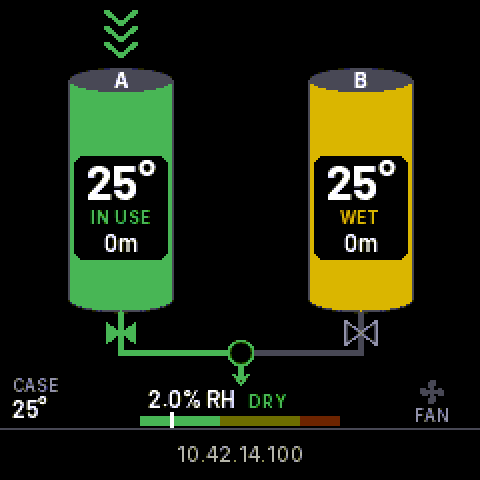
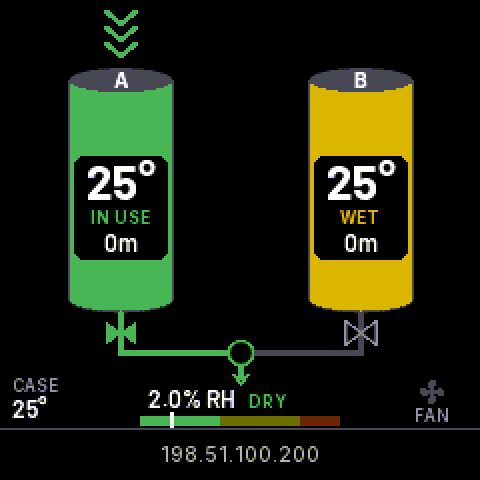
Replace device IP addresses in the repo with placeholders
The bench board's and the dev Home Assistant's LAN addresses were written
into the HA docs, the dashboard header, the handoff, and the historical
plans and specs. They change whenever the board moves between sites and
are not something the repo should carry.

- Docs and commands say `<board>` (the board's IP address), the
  placeholder CLAUDE.md already uses; the HA instance is named, not
  addressed.
- Screen scenario 11 (boot strip showing the IP) and the mockup use
  198.51.100.200, an RFC 5737 documentation address that no device can
  have; it is wider than the old address, so the strip layout is still
  exercised. docs/display/state-11.png re-rendered.

Changed region(s): [[0.3438, 0.9062, 0.6875, 0.9688]]

diff --git a/docs/display/mockup-states.html b/docs/display/mockup-states.html
@@ -32,6 +32,6 @@
 <div class="tile"><svg class="scr" viewBox="0 0 240 240"><rect width="240" height="240" fill="#000"/><ellipse cx="60" cy="150" rx="26" ry="6" fill="#FF9200" stroke="#494955" stroke-width="1"/><rect x="34" y="40" width="52" height="110" fill="#FF9200"/><line x1="34" y1="40" x2="34" y2="150" stroke="#494955" stroke-width="1"/><line x1="86" y1="40" x2="86" y2="150" stroke="#494955" stroke-width="1"/><ellipse cx="60" cy="40" rx="26" ry="6" fill="#494955" stroke="none" stroke-width="1"/><text x="60" y="44" class="cap" text-anchor="middle">A</text><rect x="37" y="78" width="47" height="52" rx="4" fill="#000"/><text x="60" y="100" class="big" text-anchor="middle" fill="#FFFFFF">94°</text><text x="60" y="112" class="role7" text-anchor="middle" fill="#FF9200">HEATING</text><text x="60" y="126" class="timer" text-anchor="middle">15m</text><ellipse cx="180" cy="150" rx="26" ry="6" fill="#24DB55" stroke="#494955" stroke-width="1"/><rect x="154" y="40" width="52" height="110" fill="#24DB55"/><line x1="154" y1="40" x2="154" y2="150" stroke="#494955" stroke-width="1"/><line x1="206" y1="40" x2="206" y2="150" stroke="#494955" stroke-width="1"/><ellipse cx="180" cy="40" rx="26" ry="6" fill="#494955" stroke="none" stroke-width="1"/><text x="180" y="44" class="cap" text-anchor="middle">B</text><rect x="157" y="78" width="47" height="52" rx="4" fill="#000"/><text x="180" y="100" class="big" text-anchor="middle" fill="#FFFFFF">29°</text><text x="180" y="112" class="role7" text-anchor="middle" fill="#24DB55">IN USE</text><text x="180" y="126" class="timer" text-anchor="middle">1h 40m</text><path d="M51 30 C47 25 55 20 51 15 C47 10 55 7 51 3" fill="none" stroke="#FFB600" stroke-width="2" stroke-linecap="round"/><path d="M60 30 C56 25 64 20 60 15 C56 10 64 7 60 3" fill="none" stroke="#FFB600" stroke-width="2" stroke-linecap="round"/><path d="M69 30 C65 25 73 20 69 15 C65 10 73 7 69 3" fill="none" stroke="#FFB600" stroke-width="2" stroke-linecap="round"/><path d="M173 5 L180 11 L187 5" fill="none" stroke="#24DB55" stroke-width="2.5" stroke-linejoin="round"/><path d="M173 13 L180 19 L187 13" fill="none" stroke="#24DB55" stroke-width="2.5" stroke-linejoin="round"/><path d="M173 21 L180 27 L187 21" fill="none" stroke="#24DB55" stroke-width="2.5" stroke-linejoin="round"/><path d="M60 156 V176 M60 176 H180 M180 156 V176" stroke="#494955" stroke-width="3" fill="none"/><path d="M180 156 V176 M180 176 H120" stroke="#24DB55" stroke-width="3" fill="none"/><path d="M53 160 L60 166 L53 172 Z M67 160 L60 166 L67 172 Z" fill="#000" stroke="#9292AA" stroke-width="1.2"/><path d="M173 160 L180 166 L173 172 Z M187 160 L180 166 L187 172 Z" fill="#24DB55"/><circle cx="120" cy="176" r="6" fill="#000" stroke="#24DB55" stroke-width="1.5"/><path d="M120 182 V190" stroke="#24DB55" stroke-width="3"/><path d="M116 187 L120 192 L124 187" fill="none" stroke="#24DB55" stroke-width="1.5"/><text x="118" y="204" class="val12" text-anchor="end">5.6% RH</text><text x="124" y="204" class="role8" fill="#FFB600">RISING</text><rect x="70" y="208" width="40" height="5" fill="#246D24"/><rect x="110" y="208" width="40" height="5" fill="#FFB600"/><rect x="150" y="208" width="20" height="5" fill="#6D0000"/><rect x="114" y="206" width="2" height="9" fill="#FFFFFF"/><text x="6" y="196" class="lab">CASE</text><text x="6" y="209" class="val12">30°</text><g transform="translate(216 196)"><circle r="7" fill="none" stroke="#24DB55" stroke-width="1.4"/><ellipse cx="0" cy="-3.2" rx="1.6" ry="3" fill="#24DB55" transform="rotate(0)"/><ellipse cx="0" cy="-3.2" rx="1.6" ry="3" fill="#24DB55" transform="rotate(120)"/><ellipse cx="0" cy="-3.2" rx="1.6" ry="3" fill="#24DB55" transform="rotate(240)"/></g><text x="216" y="211" class="lab7" text-anchor="middle">FAN</text><line x1="0" y1="214" x2="240" y2="214" stroke="#494955"/><text x="120" y="231" class="status" text-anchor="middle">Air via B, A heating</text></svg><h4>8. B in use, A heating</h4><p>Mirror image: waves over A, chevrons into B.</p></div>
 <div class="tile"><svg class="scr" viewBox="0 0 240 240"><rect width="240" height="240" fill="#000"/><ellipse cx="60" cy="150" rx="26" ry="6" fill="#24DB55" stroke="#494955" stroke-width="1"/><rect x="34" y="40" width="52" height="110" fill="#24DB55"/><line x1="34" y1="40" x2="34" y2="150" stroke="#494955" stroke-width="1"/><line x1="86" y1="40" x2="86" y2="150" stroke="#494955" stroke-width="1"/><ellipse cx="60" cy="40" rx="26" ry="6" fill="#494955" stroke="none" stroke-width="1"/><text x="60" y="44" class="cap" text-anchor="middle">A</text><rect x="37" y="78" width="47" height="52" rx="4" fill="#000"/><text x="60" y="100" class="big" text-anchor="middle" fill="#FFFFFF">33°</text><text x="60" y="112" class="role7" text-anchor="middle" fill="#24DB55">IN USE</text><text x="60" y="126" class="timer" text-anchor="middle">2h 20m</text><ellipse cx="180" cy="150" rx="26" ry="6" fill="#FF2424" stroke="#494955" stroke-width="1"/><rect x="154" y="40" width="52" height="110" fill="#FF2424"/><line x1="154" y1="40" x2="154" y2="150" stroke="#494955" stroke-width="1"/><line x1="206" y1="40" x2="206" y2="150" stroke="#494955" stroke-width="1"/><ellipse cx="180" cy="40" rx="26" ry="6" fill="#494955" stroke="none" stroke-width="1"/><text x="180" y="44" class="cap" text-anchor="middle">B</text><rect x="157" y="78" width="47" height="52" rx="4" fill="#000"/><text x="180" y="100" class="big" text-anchor="middle" fill="#FFFFFF">124°</text><text x="180" y="112" class="role7" text-anchor="middle" fill="#FF2424">FAULT</text><text x="180" y="126" class="timer" text-anchor="middle">18m</text><path d="M53 5 L60 11 L67 5" fill="none" stroke="#24DB55" stroke-width="2.5" stroke-linejoin="round"/><path d="M53 13 L60 19 L67 13" fill="none" stroke="#24DB55" stroke-width="2.5" stroke-linejoin="round"/><path d="M53 21 L60 27 L67 21" fill="none" stroke="#24DB55" stroke-width="2.5" stroke-linejoin="round"/><path d="M60 156 V176 M60 176 H180 M180 156 V176" stroke="#494955" stroke-width="3" fill="none"/><path d="M60 156 V176 M60 176 H120" stroke="#24DB55" stroke-width="3" fill="none"/><path d="M53 160 L60 166 L53 172 Z M67 160 L60 166 L67 172 Z" fill="#24DB55"/><path d="M173 160 L180 166 L173 172 Z M187 160 L180 166 L187 172 Z" fill="#000" stroke="#9292AA" stroke-width="1.2"/><circle cx="120" cy="176" r="6" fill="#000" stroke="#24DB55" stroke-width="1.5"/><path d="M120 182 V190" stroke="#24DB55" stroke-width="3"/><path d="M116 187 L120 192 L124 187" fill="none" stroke="#24DB55" stroke-width="1.5"/><text x="118" y="204" class="val12" text-anchor="end">6.1% RH</text><text x="124" y="204" class="role8" fill="#FFB600">RISING</text><rect x="70" y="208" width="40" height="5" fill="#246D24"/><rect x="110" y="208" width="40" height="5" fill="#FFB600"/><rect x="150" y="208" width="20" height="5" fill="#6D0000"/><rect x="118" y="206" width="2" height="9" fill="#FFFFFF"/><text x="6" y="196" class="lab">CASE</text><text x="6" y="209" class="val12">36°</text><g transform="translate(216 196)"><circle r="7" fill="none" stroke="#24DB55" stroke-width="1.4"/><ellipse cx="0" cy="-3.2" rx="1.6" ry="3" fill="#24DB55" transform="rotate(0)"/><ellipse cx="0" cy="-3.2" rx="1.6" ry="3" fill="#24DB55" transform="rotate(120)"/><ellipse cx="0" cy="-3.2" rx="1.6" ry="3" fill="#24DB55" transform="rotate(240)"/></g><text x="216" y="211" class="lab7" text-anchor="middle">FAN</text><rect x="0" y="214" width="240" height="26" fill="#DB2424"/><text x="120" y="231" class="statusb" text-anchor="middle">FAULT · Standby pack overtemp</text></svg><h4>9. Fault on B</h4><p>Heaters off on a fault, so no waves; A's valve stays open, so air still flows in.</p></div>
 <div class="tile"><svg class="scr" viewBox="0 0 240 240"><rect width="240" height="240" fill="#000"/><ellipse cx="60" cy="150" rx="26" ry="6" fill="#000000" stroke="#494955" stroke-width="1"/><rect x="34" y="40" width="52" height="110" fill="#000000"/><line x1="34" y1="40" x2="34" y2="150" stroke="#494955" stroke-width="1"/><line x1="86" y1="40" x2="86" y2="150" stroke="#494955" stroke-width="1"/><ellipse cx="60" cy="40" rx="26" ry="6" fill="#494955" stroke="none" stroke-width="1"/><text x="60" y="44" class="cap" text-anchor="middle">A</text><rect x="37" y="78" width="47" height="52" rx="4" fill="#000"/><text x="60" y="100" class="big" text-anchor="middle" fill="#FFFFFF">28°</text><text x="60" y="112" class="role7" text-anchor="middle" fill="#9292AA">OFF</text><ellipse cx="180" cy="150" rx="26" ry="6" fill="#000000" stroke="#494955" stroke-width="1"/><rect x="154" y="40" width="52" height="110" fill="#000000"/><line x1="154" y1="40" x2="154" y2="150" stroke="#494955" stroke-width="1"/><line x1="206" y1="40" x2="206" y2="150" stroke="#494955" stroke-width="1"/><ellipse cx="180" cy="40" rx="26" ry="6" fill="#494955" stroke="none" stroke-width="1"/><text x="180" y="44" class="cap" text-anchor="middle">B</text><rect x="157" y="78" width="47" height="52" rx="4" fill="#000"/><text x="180" y="100" class="big" text-anchor="middle" fill="#FFFFFF">45°</text><text x="180" y="112" class="role7" text-anchor="middle" fill="#9292AA">OFF</text><path d="M60 156 V176 M60 176 H180 M180 156 V176" stroke="#494955" stroke-width="3" fill="none"/><path d="M53 160 L60 166 L53 172 Z M67 160 L60 166 L67 172 Z" fill="#000" stroke="#9292AA" stroke-width="1.2"/><path d="M173 160 L180 166 L173 172 Z M187 160 L180 166 L187 172 Z" fill="#000" stroke="#9292AA" stroke-width="1.2"/><circle cx="120" cy="176" r="6" fill="#000" stroke="#494955" stroke-width="1.5"/><path d="M120 182 V190" stroke="#494955" stroke-width="3"/><path d="M116 187 L120 192 L124 187" fill="none" stroke="#494955" stroke-width="1.5"/><text x="118" y="204" class="val12" text-anchor="end">3.0% RH</text><text x="124" y="204" class="role8" fill="#24DB55">DRY</text><rect x="70" y="208" width="40" height="5" fill="#24DB55"/><rect x="110" y="208" width="40" height="5" fill="#6D4900"/><rect x="150" y="208" width="20" height="5" fill="#6D0000"/><rect x="93" y="206" width="2" height="9" fill="#FFFFFF"/><text x="6" y="196" class="lab">CASE</text><text x="6" y="209" class="val12">26°</text><g transform="translate(216 196)"><circle r="7" fill="none" stroke="#494955" stroke-width="1.4"/><ellipse cx="0" cy="-3.2" rx="1.6" ry="3" fill="#494955" transform="rotate(0)"/><ellipse cx="0" cy="-3.2" rx="1.6" ry="3" fill="#494955" transform="rotate(120)"/><ellipse cx="0" cy="-3.2" rx="1.6" ry="3" fill="#494955" transform="rotate(240)"/></g><text x="216" y="211" class="lab7" text-anchor="middle">FAN</text><line x1="0" y1="214" x2="240" y2="214" stroke="#494955"/><text x="120" y="231" class="status" text-anchor="middle">Disabled</text></svg><h4>10. Disabled</h4><p>Everything off: nothing at the top.</p></div>
-<div class="tile"><svg class="scr" viewBox="0 0 240 240"><rect width="240" height="240" fill="#000"/><ellipse cx="60" cy="150" rx="26" ry="6" fill="#24DB55" stroke="#494955" stroke-width="1"/><rect x="34" y="40" width="52" height="110" fill="#24DB55"/><line x1="34" y1="40" x2="34" y2="150" stroke="#494955" stroke-width="1"/><line x1="86" y1="40" x2="86" y2="150" stroke="#494955" stroke-width="1"/><ellipse cx="60" cy="40" rx="26" ry="6" fill="#494955" stroke="none" stroke-width="1"/><text x="60" y="44" class="cap" text-anchor="middle">A</text><rect x="37" y="78" width="47" height="52" rx="4" fill="#000"/><text x="60" y="100" class="big" text-anchor="middle" fill="#FFFFFF">25°</text><text x="60" y="112" class="role7" text-anchor="middle" fill="#24DB55">IN USE</text><text x="60" y="126" class="timer" text-anchor="middle">0m</text><ellipse cx="180" cy="150" rx="26" ry="6" fill="#FF92AA" stroke="#494955" stroke-width="1"/><rect x="154" y="40" width="52" height="110" fill="#FF92AA"/><line x1="154" y1="40" x2="154" y2="150" stroke="#494955" stroke-width="1"/><line x1="206" y1="40" x2="206" y2="150" stroke="#494955" stroke-width="1"/><ellipse cx="180" cy="40" rx="26" ry="6" fill="#494955" stroke="none" stroke-width="1"/><text x="180" y="44" class="cap" text-anchor="middle">B</text><rect x="157" y="78" width="47" height="52" rx="4" fill="#000"/><text x="180" y="100" class="big" text-anchor="middle" fill="#FFFFFF">25°</text><text x="180" y="112" class="role7" text-anchor="middle" fill="#FF92AA">WET</text><text x="180" y="126" class="timer" text-anchor="middle">0m</text><path d="M53 5 L60 11 L67 5" fill="none" stroke="#24DB55" stroke-width="2.5" stroke-linejoin="round"/><path d="M53 13 L60 19 L67 13" fill="none" stroke="#24DB55" stroke-width="2.5" stroke-linejoin="round"/><path d="M53 21 L60 27 L67 21" fill="none" stroke="#24DB55" stroke-width="2.5" stroke-linejoin="round"/><path d="M60 156 V176 M60 176 H180 M180 156 V176" stroke="#494955" stroke-width="3" fill="none"/><path d="M60 156 V176 M60 176 H120" stroke="#24DB55" stroke-width="3" fill="none"/><path d="M53 160 L60 166 L53 172 Z M67 160 L60 166 L67 172 Z" fill="#24DB55"/><path d="M173 160 L180 166 L173 172 Z M187 160 L180 166 L187 172 Z" fill="#000" stroke="#9292AA" stroke-width="1.2"/><circle cx="120" cy="176" r="6" fill="#000" stroke="#24DB55" stroke-width="1.5"/><path d="M120 182 V190" stroke="#24DB55" stroke-width="3"/><path d="M116 187 L120 192 L124 187" fill="none" stroke="#24DB55" stroke-width="1.5"/><text x="118" y="204" class="val12" text-anchor="end">2.0% RH</text><text x="124" y="204" class="role8" fill="#24DB55">DRY</text><rect x="70" y="208" width="40" height="5" fill="#24DB55"/><rect x="110" y="208" width="40" height="5" fill="#6D4900"/><rect x="150" y="208" width="20" height="5" fill="#6D0000"/><rect x="85" y="206" width="2" height="9" fill="#FFFFFF"/><text x="6" y="196" class="lab">CASE</text><text x="6" y="209" class="val12">25°</text><g transform="translate(216 196)"><circle r="7" fill="none" stroke="#494955" stroke-width="1.4"/><ellipse cx="0" cy="-3.2" rx="1.6" ry="3" fill="#494955" transform="rotate(0)"/><ellipse cx="0" cy="-3.2" rx="1.6" ry="3" fill="#494955" transform="rotate(120)"/><ellipse cx="0" cy="-3.2" rx="1.6" ry="3" fill="#494955" transform="rotate(240)"/></g><text x="216" y="211" class="lab7" text-anchor="middle">FAN</text><line x1="0" y1="214" x2="240" y2="214" stroke="#494955"/><text x="120" y="231" class="status" text-anchor="middle">10.42.14.100</text></svg><h4>11. Boot</h4><p>IP in the strip for the first minute.</p></div>
+<div class="tile"><svg class="scr" viewBox="0 0 240 240"><rect width="240" height="240" fill="#000"/><ellipse cx="60" cy="150" rx="26" ry="6" fill="#24DB55" stroke="#494955" stroke-width="1"/><rect x="34" y="40" width="52" height="110" fill="#24DB55"/><line x1="34" y1="40" x2="34" y2="150" stroke="#494955" stroke-width="1"/><line x1="86" y1="40" x2="86" y2="150" stroke="#494955" stroke-width="1"/><ellipse cx="60" cy="40" rx="26" ry="6" fill="#494955" stroke="none" stroke-width="1"/><text x="60" y="44" class="cap" text-anchor="middle">A</text><rect x="37" y="78" width="47" height="52" rx="4" fill="#000"/><text x="60" y="100" class="big" text-anchor="middle" fill="#FFFFFF">25°</text><text x="60" y="112" class="role7" text-anchor="middle" fill="#24DB55">IN USE</text><text x="60" y="126" class="timer" text-anchor="middle">0m</text><ellipse cx="180" cy="150" rx="26" ry="6" fill="#FF92AA" stroke="#494955" stroke-width="1"/><rect x="154" y="40" width="52" height="110" fill="#FF92AA"/><line x1="154" y1="40" x2="154" y2="150" stroke="#494955" stroke-width="1"/><line x1="206" y1="40" x2="206" y2="150" stroke="#494955" stroke-width="1"/><ellipse cx="180" cy="40" rx="26" ry="6" fill="#494955" stroke="none" stroke-width="1"/><text x="180" y="44" class="cap" text-anchor="middle">B</text><rect x="157" y="78" width="47" height="52" rx="4" fill="#000"/><text x="180" y="100" class="big" text-anchor="middle" fill="#FFFFFF">25°</text><text x="180" y="112" class="role7" text-anchor="middle" fill="#FF92AA">WET</text><text x="180" y="126" class="timer" text-anchor="middle">0m</text><path d="M53 5 L60 11 L67 5" fill="none" stroke="#24DB55" stroke-width="2.5" stroke-linejoin="round"/><path d="M53 13 L60 19 L67 13" fill="none" stroke="#24DB55" stroke-width="2.5" stroke-linejoin="round"/><path d="M53 21 L60 27 L67 21" fill="none" stroke="#24DB55" stroke-width="2.5" stroke-linejoin="round"/><path d="M60 156 V176 M60 176 H180 M180 156 V176" stroke="#494955" stroke-width="3" fill="none"/><path d="M60 156 V176 M60 176 H120" stroke="#24DB55" stroke-width="3" fill="none"/><path d="M53 160 L60 166 L53 172 Z M67 160 L60 166 L67 172 Z" fill="#24DB55"/><path d="M173 160 L180 166 L173 172 Z M187 160 L180 166 L187 172 Z" fill="#000" stroke="#9292AA" stroke-width="1.2"/><circle cx="120" cy="176" r="6" fill="#000" stroke="#24DB55" stroke-width="1.5"/><path d="M120 182 V190" stroke="#24DB55" stroke-width="3"/><path d="M116 187 L120 192 L124 187" fill="none" stroke="#24DB55" stroke-width="1.5"/><text x="118" y="204" class="val12" text-anchor="end">2.0% RH</text><text x="124" y="204" class="role8" fill="#24DB55">DRY</text><rect x="70" y="208" width="40" height="5" fill="#24DB55"/><rect x="110" y="208" width="40" height="5" fill="#6D4900"/><rect x="150" y="208" width="20" height="5" fill="#6D0000"/><rect x="85" y="206" width="2" height="9" fill="#FFFFFF"/><text x="6" y="196" class="lab">CASE</text><text x="6" y="209" class="val12">25°</text><g transform="translate(216 196)"><circle r="7" fill="none" stroke="#494955" stroke-width="1.4"/><ellipse cx="0" cy="-3.2" rx="1.6" ry="3" fill="#494955" transform="rotate(0)"/><ellipse cx="0" cy="-3.2" rx="1.6" ry="3" fill="#494955" transform="rotate(120)"/><ellipse cx="0" cy="-3.2" rx="1.6" ry="3" fill="#494955" transform="rotate(240)"/></g><text x="216" y="211" class="lab7" text-anchor="middle">FAN</text><line x1="0" y1="214" x2="240" y2="214" stroke="#494955"/><text x="120" y="231" class="status" text-anchor="middle">198.51.100.200</text></svg><h4>11. Boot</h4><p>IP in the strip for the first minute.</p></div>
 <div class="tile"><svg class="scr" viewBox="0 0 240 240"><rect width="240" height="240" fill="#000"/><ellipse cx="60" cy="150" rx="26" ry="6" fill="#24DB55" stroke="#494955" stroke-width="1"/><rect x="34" y="40" width="52" height="110" fill="#24DB55"/><line x1="34" y1="40" x2="34" y2="150" stroke="#494955" stroke-width="1"/><line x1="86" y1="40" x2="86" y2="150" stroke="#494955" stroke-width="1"/><ellipse cx="60" cy="40" rx="26" ry="6" fill="#494955" stroke="none" stroke-width="1"/><text x="60" y="44" class="cap" text-anchor="middle">A</text><rect x="37" y="78" width="47" height="52" rx="4" fill="#000"/><text x="60" y="100" class="big" text-anchor="middle" fill="#FFFFFF">30°</text><text x="60" y="112" class="role7" text-anchor="middle" fill="#24DB55">IN USE</text><text x="60" y="126" class="timer" text-anchor="middle">44m</text><ellipse cx="180" cy="150" rx="26" ry="6" fill="#FF9200" stroke="#494955" stroke-width="1"/><rect x="154" y="40" width="52" height="110" fill="#FF9200"/><line x1="154" y1="40" x2="154" y2="150" stroke="#494955" stroke-width="1"/><line x1="206" y1="40" x2="206" y2="150" stroke="#494955" stroke-width="1"/><ellipse cx="180" cy="40" rx="26" ry="6" fill="#494955" stroke="none" stroke-width="1"/><text x="180" y="44" class="cap" text-anchor="middle">B</text><rect x="157" y="78" width="47" height="52" rx="4" fill="#000"/><text x="180" y="100" class="big" text-anchor="middle" fill="#9292AA">--°</text><text x="180" y="112" class="role7" text-anchor="middle" fill="#FF9200">HEATING</text><text x="180" y="126" class="timer" text-anchor="middle">3m</text><path d="M53 5 L60 11 L67 5" fill="none" stroke="#24DB55" stroke-width="2.5" stroke-linejoin="round"/><path d="M53 13 L60 19 L67 13" fill="none" stroke="#24DB55" stroke-width="2.5" stroke-linejoin="round"/><path d="M53 21 L60 27 L67 21" fill="none" stroke="#24DB55" stroke-width="2.5" stroke-linejoin="round"/><path d="M60 156 V176 M60 176 H180 M180 156 V176" stroke="#494955" stroke-width="3" fill="none"/><path d="M60 156 V176 M60 176 H120" stroke="#24DB55" stroke-width="3" fill="none"/><path d="M53 160 L60 166 L53 172 Z M67 160 L60 166 L67 172 Z" fill="#24DB55"/><path d="M173 160 L180 166 L173 172 Z M187 160 L180 166 L187 172 Z" fill="#000" stroke="#9292AA" stroke-width="1.2"/><circle cx="120" cy="176" r="6" fill="#000" stroke="#24DB55" stroke-width="1.5"/><path d="M120 182 V190" stroke="#24DB55" stroke-width="3"/><path d="M116 187 L120 192 L124 187" fill="none" stroke="#24DB55" stroke-width="1.5"/><text x="118" y="204" class="val12" text-anchor="end">6.0% RH</text><text x="124" y="204" class="role8" fill="#FFB600">RISING</text><rect x="70" y="208" width="40" height="5" fill="#246D24"/><rect x="110" y="208" width="40" height="5" fill="#FFB600"/><rect x="150" y="208" width="20" height="5" fill="#6D0000"/><rect x="117" y="206" width="2" height="9" fill="#FFFFFF"/><text x="6" y="196" class="lab">CASE</text><text x="6" y="209" class="val12">29°</text><g transform="translate(216 196)"><circle r="7" fill="none" stroke="#494955" stroke-width="1.4"/><ellipse cx="0" cy="-3.2" rx="1.6" ry="3" fill="#494955" transform="rotate(0)"/><ellipse cx="0" cy="-3.2" rx="1.6" ry="3" fill="#494955" transform="rotate(120)"/><ellipse cx="0" cy="-3.2" rx="1.6" ry="3" fill="#494955" transform="rotate(240)"/></g><text x="216" y="211" class="lab7" text-anchor="middle">FAN</text><rect x="210" y="4" width="22" height="12" rx="2" fill="#FFB600"/><text x="221" y="13" class="badge" text-anchor="middle">SIM</text><line x1="0" y1="214" x2="240" y2="214" stroke="#494955"/><text x="120" y="231" class="status" text-anchor="middle">Air via A, B heating</text></svg><h4>12. Probe B missing, SIM on</h4><p>HEATING but the heater is held off, so no waves; SIM badge clear of B.</p></div>
 </div>

diff --git a/docs/superpowers/plans/2026-09-14-screen-mirror.md b/docs/superpowers/plans/2026-09-14-screen-mirror.md
@@ -19,7 +19,7 @@
 - Endpoint path `/screen.png`, content type `image/png`, header `Cache-Control: no-store`. Query strings after `?` are ignored when matching the path.
 - The component is included in both device selectors and never in `desiccant-dryer-host.yaml`. `.github/workflows/build.yml` does not change. Nothing the display draws changes.
 - The ili9xxx display id is `panel`. Component config key `screen_mirror`, option `display_id`, optional `path`.
-- Bench test board: virtual build at `10.42.14.100`, reachable from the Mac; OTA uses the real `esphome/secrets.yaml` (gitignored; never print or commit it).
+- Bench test board: virtual build at `<board>` (its IP address, from the boot log), reachable from the Mac; OTA uses the real `esphome/secrets.yaml` (gitignored; never print or commit it).
 - The device-build equivalence convention does not apply to this feature; config dumps are expected to differ.
 - Commit messages end with `Co-Authored-By: Claude Fable 5.1 <noreply@anthropic.com>`. The PR description ends with `🤖 Generated with [Claude Code](https://claude.com/claude-code)`.
 
@@ -378,13 +378,13 @@ Co-Authored-By: Claude Fable 5.1 <noreply@anthropic.com>" && git log --oneline -
 - Create (gitignored): `.superpowers/run/screen.bmp`, `.superpowers/run/screen.png`, `.superpowers/run/screen-headers.txt`
 
 **Interfaces:**
-- Consumes: the virtual build compiled in Task 1; the bench board at `10.42.14.100`; `esphome/secrets.yaml` for the OTA password.
+- Consumes: the virtual build compiled in Task 1; the bench board at `<board>`; `esphome/secrets.yaml` for the OTA password.
 - Produces: a decoded frame the controller inspects visually.
 
 - [ ] **Step 1: Confirm the board is up and does not serve the image yet**
 
 ```bash
-cd /Users/josh/GitHub/desiccant-dryer/.claude/worktrees/display-mirroring-laptop-c13ab1 && curl -s -m 5 -o /dev/null -w "root %{http_code}\n" http://10.42.14.100/ && curl -s -m 5 -o /dev/null -w "screen %{http_code}\n" http://10.42.14.100/screen.bmp
+cd /Users/josh/GitHub/desiccant-dryer/.claude/worktrees/display-mirroring-laptop-c13ab1 && curl -s -m 5 -o /dev/null -w "root %{http_code}\n" http://<board>/ && curl -s -m 5 -o /dev/null -w "screen %{http_code}\n" http://<board>/screen.bmp
 ```
 
 Expected: `root 200` and `screen 000` (no handler and no not-found page yet, so the server closes the connection without a status line). If root does not answer, stop and report BLOCKED: the board is off or moved.
@@ -392,7 +392,7 @@ Expected: `root 200` and `screen 000` (no handler and no not-found page yet, so 
 - [ ] **Step 2: Upload over the air**
 
 ```bash
-cd /Users/josh/GitHub/desiccant-dryer/.claude/worktrees/display-mirroring-laptop-c13ab1 && esphome upload esphome/desiccant-dryer-virtual.yaml --device 10.42.14.100 > .superpowers/run/upload.txt 2>&1; tail -4 .superpowers/run/upload.txt
+cd /Users/josh/GitHub/desiccant-dryer/.claude/worktrees/display-mirroring-laptop-c13ab1 && esphome upload esphome/desiccant-dryer-virtual.yaml --device <board> > .superpowers/run/upload.txt 2>&1; tail -4 .superpowers/run/upload.txt
 ```
 
 Use a 300000 ms timeout. Expected: the tail shows the OTA progress reaching 100 % and `INFO Upload took ...` / `OTA successful`. The board reboots.
@@ -402,10 +402,10 @@ Use a 300000 ms timeout. Expected: the tail shows the OTA progress reaching 100 
 Wait for the board to be back (poll until the root answers), then fetch:
 
 ```bash
-cd /Users/josh/GitHub/desiccant-dryer/.claude/worktrees/display-mirroring-laptop-c13ab1 && for i in $(seq 1 30); do curl -s -m 2 -o /dev/null http://10.42.14.100/ && break; perl -e 'select(undef,undef,undef,1)'; done; curl -s -m 10 -D .superpowers/run/screen-headers.txt -o .superpowers/run/screen.bmp http://10.42.14.100/screen.bmp; grep -iE "^HTTP|content-type|cache-control|transfer-encoding" .superpowers/run/screen-headers.txt; ls -l .superpowers/run/screen.bmp | awk '{print $5, $9}'
+cd /Users/josh/GitHub/desiccant-dryer/.claude/worktrees/display-mirroring-laptop-c13ab1 && for i in $(seq 1 30); do curl -s -m 2 -o /dev/null http://<board>/ && break; perl -e 'select(undef,undef,undef,1)'; done; curl -s -m 10 -D .superpowers/run/screen-headers.txt -o .superpowers/run/screen.bmp http://<board>/screen.bmp; grep -iE "^HTTP|content-type|cache-control|transfer-encoding" .superpowers/run/screen-headers.txt; ls -l .superpowers/run/screen.bmp | awk '{print $5, $9}'
 ```
 
-Expected: `HTTP/1.1 200 OK`, `Content-Type: image/bmp`, `Cache-Control: no-store`, `Transfer-Encoding: chunked`, and a file of exactly `58678` bytes. A `500` here means the buffer check failed; the board log (`esphome logs esphome/desiccant-dryer-virtual.yaml --device 10.42.14.100`, run for a few seconds) shows the warning.
+Expected: `HTTP/1.1 200 OK`, `Content-Type: image/bmp`, `Cache-Control: no-store`, `Transfer-Encoding: chunked`, and a file of exactly `58678` bytes. A `500` here means the buffer check failed; the board log (`esphome logs esphome/desiccant-dryer-virtual.yaml --device <board>`, run for a few seconds) shows the warning.
 
 - [ ] **Step 4: Decode and check the frame**
 
@@ -431,7 +431,7 @@ Expected: `size (240, 240) mode P`, `p(0,0) 0`, `p(231,200)` one of 146, 89 or 2
 - [ ] **Step 5: Two fetches a second apart, and the board is unaffected**
 
 ```bash
-cd /Users/josh/GitHub/desiccant-dryer/.claude/worktrees/display-mirroring-laptop-c13ab1 && for i in 1 2; do curl -s -m 10 -o /dev/null -w "fetch $i: %{http_code} %{size_download} bytes in %{time_total}s\n" http://10.42.14.100/screen.bmp; perl -e 'select(undef,undef,undef,1)'; done; perl -e 'alarm 12; exec @ARGV' esphome logs esphome/desiccant-dryer-virtual.yaml --device 10.42.14.100 > .superpowers/run/board-log.txt 2>&1; grep -cE "took a long time|\[E\]" .superpowers/run/board-log.txt
+cd /Users/josh/GitHub/desiccant-dryer/.claude/worktrees/display-mirroring-laptop-c13ab1 && for i in 1 2; do curl -s -m 10 -o /dev/null -w "fetch $i: %{http_code} %{size_download} bytes in %{time_total}s\n" http://<board>/screen.bmp; perl -e 'select(undef,undef,undef,1)'; done; perl -e 'alarm 12; exec @ARGV' esphome logs esphome/desiccant-dryer-virtual.yaml --device <board> > .superpowers/run/board-log.txt 2>&1; grep -cE "took a long time|\[E\]" .superpowers/run/board-log.txt
 ```
 
 Expected: two lines `200 58678 bytes` each well under a second, and `0` matching log lines during the 12 s window. Nothing to commit in this task; record the outputs in the report.
@@ -452,7 +452,7 @@ Expected: two lines `200 58678 bytes` each well under a second, and `0` matching
 Both device builds serve the panel's frame buffer as an image:
 
 ```bash
-curl -o screen.bmp http://10.42.14.100/screen.bmp     # bench board
+curl -o screen.bmp http://<board>/screen.bmp     # bench board
 ```
 
 It is a 240x240 8-bit BMP, 58,678 bytes, exactly what the ST7789 is
@@ -466,7 +466,7 @@ Settings, Devices & services, Add integration, **Generic Camera**:
 
 | Field | Value |
 |---|---|
-| Still Image URL | `http://10.42.14.100/screen.bmp` (the board's address; `desiccant-dryer-virtual.local` if mDNS resolves from Home Assistant) |
+| Still Image URL | `http://<board>/screen.bmp` (the board's address; `desiccant-dryer-virtual.local` if mDNS resolves from Home Assistant) |
 | Stream Source URL | leave empty |
 | Content Type | `image/bmp` |
 | Frame Rate (Hz) | `0.5` (the display redraws every 2 s) |
@@ -562,7 +562,7 @@ Expected: a PR URL. The controller then binds it and watches CI and the Copilot 
 
 ### Task 5: Home Assistant camera (user at Home Assistant)
 
-- [ ] **Step 1:** Add the Generic Camera exactly as the table in `docs/screen-in-ha.md`, pointed at `http://10.42.14.100/screen.bmp`, content type `image/bmp`, 0.5 Hz. Expected: the integration's preview shows the dryer screen.
+- [ ] **Step 1:** Add the Generic Camera exactly as the table in `docs/screen-in-ha.md`, pointed at `http://<board>/screen.bmp`, content type `image/bmp`, 0.5 Hz. Expected: the integration's preview shows the dryer screen.
 - [ ] **Step 2:** Add a Picture Entity card for `camera.dryer_screen` to the dryer dashboard. Expected: the card shows the same frame as the board.
 - [ ] **Step 3:** Toggle `Simulate Humidity` on the virtual device. Expected: within a few seconds the card's humidity line turns orange and reads "SIM", matching the panel.
 - [ ] **Step 4:** Report anything that differs, with a screenshot, in the conversation and on the PR.
@@ -587,7 +587,7 @@ Expected: a PR URL. The controller then binds it and watches CI and the Copilot 
 - [ ] **Step 1: Reproduce the rejection (the failing test)**
 
 ```bash
-cd /Users/josh/GitHub/desiccant-dryer/.claude/worktrees/display-mirroring-laptop-c13ab1 && curl -s -m 10 -o .superpowers/run/before.img http://10.42.14.100/screen.bmp && "$(dirname "$(readlink -f "$(which esphome)")")/python" -c "
+cd /Users/josh/GitHub/desiccant-dryer/.claude/worktrees/display-mirroring-laptop-c13ab1 && curl -s -m 10 -o .superpowers/run/before.img http://<board>/screen.bmp && "$(dirname "$(readlink -f "$(which esphome)")")/python" -c "
 from PIL import Image
 im = Image.open('.superpowers/run/before.img'); fmt = im.format.lower()
 print('format', fmt, '-> accepted by Home Assistant:', fmt in {'png','jpeg','gif','svg+xml','webp'})"
@@ -831,7 +831,7 @@ cd /Users/josh/GitHub/desiccant-dryer/.claude/worktrees/display-mirroring-laptop
 Use a 600000 ms timeout. Expected: both VALID with `1 png path(s)`, `[SUCCESS]`, no errors. A constexpr evaluation error names `PlteChunk` or `Crc32Table`; report it verbatim rather than restructuring.
 
 ```bash
-cd /Users/josh/GitHub/desiccant-dryer/.claude/worktrees/display-mirroring-laptop-c13ab1 && esphome upload esphome/desiccant-dryer-virtual.yaml --device 10.42.14.100 > .superpowers/run/upload-png.txt 2>&1; tail -2 .superpowers/run/upload-png.txt; for i in $(seq 1 30); do curl -s -m 2 -o /dev/null http://10.42.14.100/ && break; perl -e 'select(undef,undef,undef,1)'; done; curl -s -m 10 -D .superpowers/run/png-headers.txt -o .superpowers/run/screen.png "http://10.42.14.100/screen.png?t=2"; grep -iE "^HTTP|content-type" .superpowers/run/png-headers.txt; ls -l .superpowers/run/screen.png | awk '{print $5}'; curl -s -m 5 -o /dev/null -w "old bmp path now: %{http_code}\n" http://10.42.14.100/screen.bmp
+cd /Users/josh/GitHub/desiccant-dryer/.claude/worktrees/display-mirroring-laptop-c13ab1 && esphome upload esphome/desiccant-dryer-virtual.yaml --device <board> > .superpowers/run/upload-png.txt 2>&1; tail -2 .superpowers/run/upload-png.txt; for i in $(seq 1 30); do curl -s -m 2 -o /dev/null http://<board>/ && break; perl -e 'select(undef,undef,undef,1)'; done; curl -s -m 10 -D .superpowers/run/png-headers.txt -o .superpowers/run/screen.png "http://<board>/screen.png?t=2"; grep -iE "^HTTP|content-type" .superpowers/run/png-headers.txt; ls -l .superpowers/run/screen.png | awk '{print $5}'; curl -s -m 5 -o /dev/null -w "old bmp path now: %{http_code}\n" http://<board>/screen.bmp
 ```
 
 Expected: OTA success, `HTTP/1.1 200 OK`, `Content-Type: image/png`, `58688`, and the old path `000` or `404`.

diff --git a/docs/superpowers/plans/2026-09-14-display-ui.md b/docs/superpowers/plans/2026-09-14-display-ui.md
@@ -821,7 +821,7 @@ esphome:
             {2, 1, 0, true,  false, true,  true,  false, false, true,  94,  29,  30, 5.6f,  6000,  900, "Air via B, A heating", "", ""},
             {1, 2, 2, true,  false, true,  false, false, true,  false, 33, 124,  36, 6.1f,  8400, 1080, "Air via A, B cooling", "Standby pack overtemp", ""},
             {0, 0, 0, false, false, false, false, false, false, false, 28,  45,  26, 3.0f,     0,    0, "Disabled", "", ""},
-            {1, 0, 0, true,  false, false, false, false, true,  false, 25,  25,  25, 2.0f,     0,    0, "Air via A, B wet", "", "10.42.14.100"},
+            {1, 0, 0, true,  false, false, false, false, true,  false, 25,  25,  25, 2.0f,     0,    0, "Air via A, B wet", "", "198.51.100.200"},
             {1, 1, 0, true,  true,  false, false, false, true,  false, 30, NAN,  29, 6.0f,  2640,  180, "Air via A, B heating", "", ""},
           };
           int n = 3;
@@ -1338,7 +1338,7 @@ Co-Authored-By: Claude Fable 5.1 <noreply@anthropic.com>"
 scripts/preview-shots.sh
 ls -la docs/display/*.png | wc -l
 ```
-Expected: 12 files. Open each and compare against the matching tile in `docs/display/mockup-states.html`. Check specifically: 1 has no roles, timers or lit path; 6 shows OVER in red with the red zone bright; 7 shows HIGH; 10 shows OFF on both packs, both valves closed, no fan; 11's strip reads `10.42.14.100`; 12 shows the SIM badge. Fix any mismatch in the header or SVGs, re-run the affected scenario, and repeat until they match.
+Expected: 12 files. Open each and compare against the matching tile in `docs/display/mockup-states.html`. Check specifically: 1 has no roles, timers or lit path; 6 shows OVER in red with the red zone bright; 7 shows HIGH; 10 shows OFF on both packs, both valves closed, no fan; 11's strip reads `198.51.100.200`; 12 shows the SIM badge. Fix any mismatch in the header or SVGs, re-run the affected scenario, and repeat until they match.
 
 - [ ] **Step 2: Compile both ESP builds one last time**
 

diff --git a/docs/superpowers/specs/2026-09-14-screen-mirror-design.md b/docs/superpowers/specs/2026-09-14-screen-mirror-design.md
@@ -38,7 +38,7 @@ entity on a dashboard card.
   `esphome-display-screenshot` builds a 225 KB 16-bit BMP in PSRAM and is
   therefore not usable here, but it validates the pattern (BMP over the
   ESPHome web server, consumed by Home Assistant).
-- The bench test board runs the virtual build at 10.42.14.100 and answers
+- The bench test board runs the virtual build at `<board>` (its IP address) and answers
   on its web server (HTTP 200 in 0.14 s from the Mac).
 - Home Assistant's Generic Camera integration takes a still image URL, a
   content type (default `image/jpeg`) and a frame rate, is configured in the
@@ -188,7 +188,7 @@ Settings, Devices & services, Add integration, Generic Camera:
 
 | Field | Value |
 |---|---|
-| Still Image URL | `http://10.42.14.100/screen.png` (the board's address, or `http://desiccant-dryer-virtual.local/screen.png` if mDNS resolves from Home Assistant) |
+| Still Image URL | `http://<board>/screen.png` (the board's address, or `http://desiccant-dryer-virtual.local/screen.png` if mDNS resolves from Home Assistant) |
 | Content Type | `image/png` |
 | Frame Rate (Hz) | 0.5 (the display redraws every 2 s) |
 | Verify SSL certificate | off (plain HTTP) |
@@ -212,10 +212,10 @@ address once it exists.
 
 1. `esphome config` and `esphome compile` pass for both device builds.
 2. Flash the bench board over the air:
-   `esphome run esphome/desiccant-dryer-virtual.yaml --device 10.42.14.100`.
+   `esphome run esphome/desiccant-dryer-virtual.yaml --device <board>`.
    The boot log shows the component's `dump_config` line with the path
    and 240x240.
-3. `curl -s http://10.42.14.100/screen.png -o screen.png`: 58,688 bytes,
+3. `curl -s http://<board>/screen.png -o screen.png`: 58,688 bytes,
    `Content-Type: image/png`. Decoded with ESPHome's own Python (Pillow and
    zlib): PIL reports the format as `png`, which is what Home Assistant
    checks; every chunk CRC and the zlib stream verify; size 240x240, mode

diff --git a/docs/screen-in-ha.md b/docs/screen-in-ha.md
@@ -3,7 +3,7 @@
 Both device builds serve the panel's frame buffer as an image:
 
 ```bash
-curl -o screen.png http://10.42.14.100/screen.png     # bench board
+curl -o screen.png http://<board>/screen.png     # <board>: the board's IP address
 ```
 
 It is a 240x240 8-bit indexed PNG, 58,688 bytes (uncompressed, so it
@@ -31,7 +31,7 @@ Settings, Devices & services, Helpers, Create helper, **Template**,
 | Field | Value |
 |---|---|
 | Name | `Dryer Screen` (entity `image.dryer_screen`) |
-| URL | `http://10.42.14.100/screen.png?t={{ now().timestamp() \| int }}` |
+| URL | `http://<board>/screen.png?t={{ now().timestamp() \| int }}` |
 | Verify SSL certificate | off (plain HTTP) |
 
 A template image only refetches when its URL changes, and a template using
@@ -80,7 +80,7 @@ own image entity and automation pointed at its own address.
 ## Camera entity (LAN only)
 
 A Generic Camera on the same URL (Still Image URL
-`http://10.42.14.100/screen.png`, no stream source, content type
+`http://<board>/screen.png`, no stream source, content type
 `image/png`, frame rate `0.5` Hz) also works on the LAN, but not remotely
 at its useful rate. A Picture Entity card with `camera_view: live` holds
 an endless MJPEG response open (`/api/camera_proxy_stream/...`); through

diff --git a/docs/superpowers/handoffs/2026-09-15-hardware-bringup.md b/docs/superpowers/handoffs/2026-09-15-hardware-bringup.md
@@ -34,10 +34,10 @@ Do not re-brainstorm or re-plan the bring-up; the plan is `docs/hardware-bringup
   user that it has the two-site keys (`wifi_home_ssid`/`_password` and
   `wifi_workshop_ssid`/`_password`) in place of the old `wifi_ssid`/`wifi_password`;
   otherwise the config fails to validate. The board got
-  `10.42.14.100` by DHCP both times; treat it as likely but read the real one
+  the same address by DHCP both times; treat it as likely but read the real one
   from the boot log, which prints `IP x.x.x.x` two seconds after WiFi connects.
   `.local` mDNS does not resolve from this Mac.
-- Home Assistant test instance: `http://10.42.14.102`. The virtual device is
+- Home Assistant test instance: the dev instance on the home network. The virtual device is
   paired there. The production build is a different device name
   (`desiccant-dryer`), so the user pairs it as a new device with the same
   `api_key` from `esphome/secrets.yaml`; ask them to do that after the flash.

diff --git a/docs/superpowers/specs/2026-09-14-display-ui-design.md b/docs/superpowers/specs/2026-09-14-display-ui-design.md
@@ -311,14 +311,14 @@ twelve-row table matching `docs/display/mockup-states.html`:
 | 8 | B in service, A HEATING, 94/29 °C, RH 5.6 |
 | 9 | Fault 2, B at 124 °C, strip "FAULT · Standby pack overtemp" |
 | 10 | Disabled, 28/45 °C |
-| 11 | Boot: uptime under 60 s, strip shows 10.42.14.100 |
+| 11 | Boot: uptime under 60 s, strip shows 198.51.100.200 |
 | 12 | Probe B NaN, SIM on, heater blocked |
 
 The stub sets the switch states directly (valve A open and so on); there is
 no state machine on the host. Every host run starts at uptime zero, so the
 boot-IP rule would fire in every scenario; the stub therefore publishes an
 empty `ip_addr` in all scenarios except 11, where it publishes
-`10.42.14.100`.
+`198.51.100.200` (a documentation address, RFC 5737).
 
 `scripts/preview-shots.sh`: `esphome compile` the preview once, then for
 each scenario run the built binary with `SCENARIO=n`, wait for the window,

diff --git a/docs/superpowers/plans/2026-09-14-cylinder-state-colours.md b/docs/superpowers/plans/2026-09-14-cylinder-state-colours.md
@@ -322,7 +322,7 @@ Open every PNG with the Read tool and check against the spec and `docs/display/m
 | 8 | A solid orange `HEATING` with heater glow left of A; B green `IN USE`; path lit down B |
 | 9 | A green `IN USE`; B solid red `FAULT` `124°`; red strip; no red ring |
 | 10 | Both bodies black, `OFF` in dim on both, no timers |
-| 11 | A green, B pink, strip `10.42.14.100` |
+| 11 | A green, B pink, strip `198.51.100.200` |
 | 12 | A green; B solid orange with `--°` in dim; SIM badge |
 
 In every filled cylinder also check: no fill colour above the grey top cap or outside the bottom cap curve; no leftover dashed lines; the black plate is intact. If anything is off, fix the header and re-run this step.
